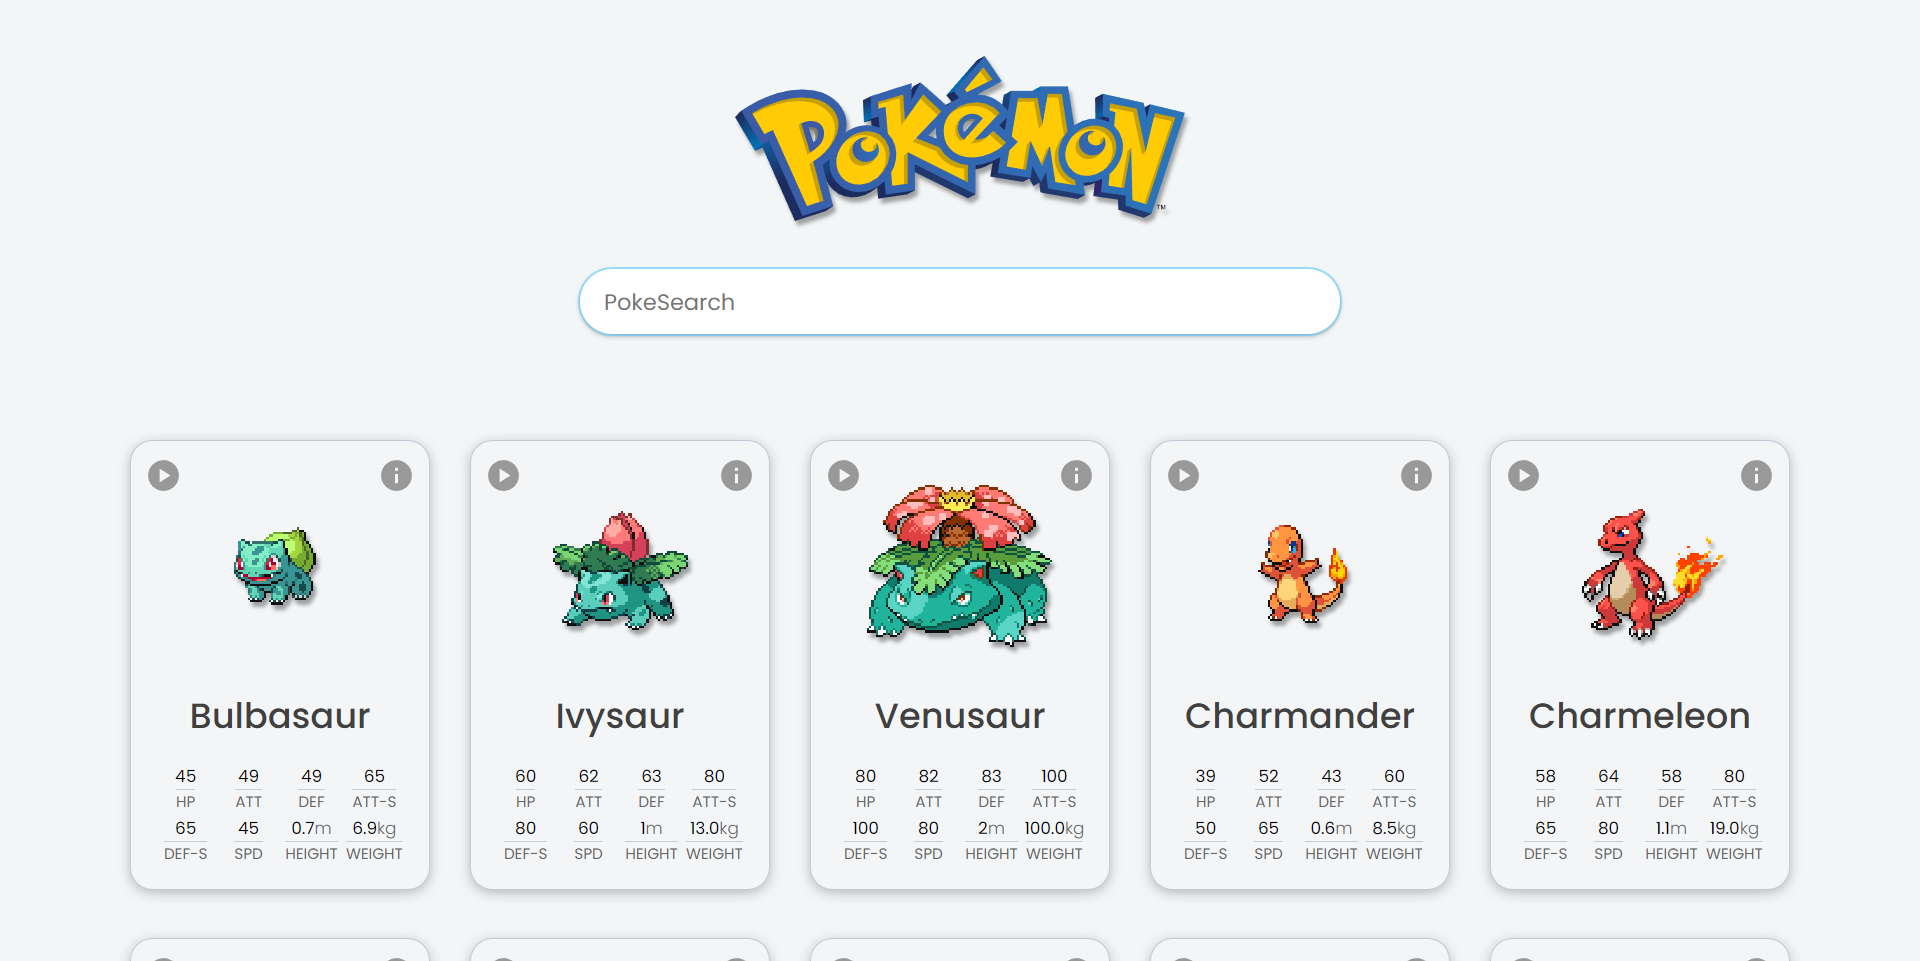
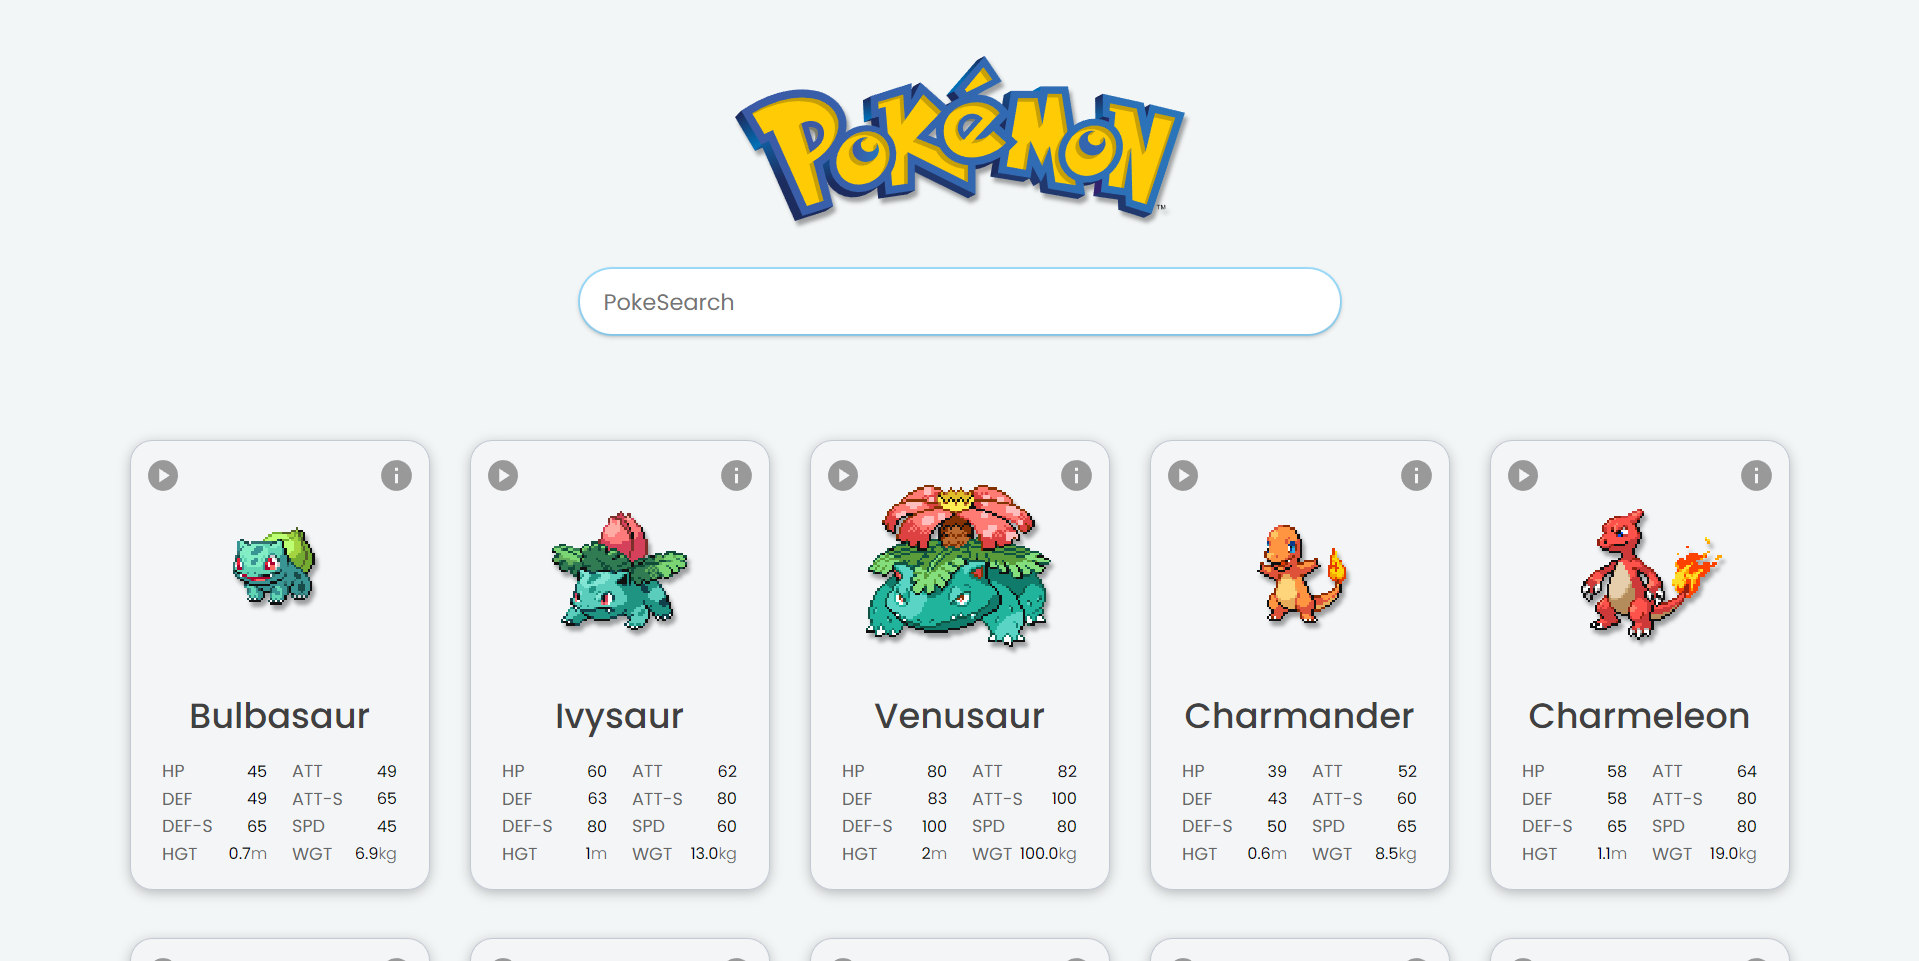
PokeAPI styles update

diff --git a/src/components/PokeCard/CardStats.tsx b/src/components/PokeCard/CardStats.tsx
@@ -1,3 +1,4 @@
+import { useLocation } from 'react-router-dom';
 import { Stat } from '../../interfaces/PokeStatsInfo';
 
 import styles from '../../stylesheets/components/PokeCardComponents/CardStats.module.scss';
@@ -10,7 +11,10 @@ type CardStatsProps = {
 };
 
 export const CardStats: React.FC<CardStatsProps> = ({ height, weight, stats }) => {
+  const { pathname } = useLocation();
+
   const UNIT_FORMULA: number = 10;
+  const atHomePage: boolean = pathname === '/';
 
   const cardStatStyles = `${styles.statsWrapper} ${pokeInfoStyles.statsWrapper}`;
   const cardUnitNameStyles = `${styles.statsUnitName} ${pokeInfoStyles.statsUnitName}`;
@@ -24,17 +28,17 @@ export const CardStats: React.FC<CardStatsProps> = ({ height, weight, stats }) =
         const changeStatsNames = (name: string): string => {
           switch (name) {
             case 'hp':
-              return 'HP';
+              return atHomePage ? 'HP' : 'HEALTH';
             case 'speed':
-              return 'SPD';
+              return atHomePage ? 'SPD' : 'SPEED';
             case 'attack':
-              return 'ATT';
+              return atHomePage ? 'ATT' : 'ATTACK';
             case 'defense':
-              return 'DEF';
+              return atHomePage ? 'DEF' : 'DEFENSE';
             case 'special-attack':
-              return 'ATT-S';
+              return atHomePage ? 'ATT-S' : 'SPECIAL-ATTACK';
             case 'special-defense':
-              return 'DEF-S';
+              return atHomePage ? 'DEF-S' : 'SPECIAL-DEFENSE';
             default:
               return name;
           }
@@ -52,14 +56,14 @@ export const CardStats: React.FC<CardStatsProps> = ({ height, weight, stats }) =
           {height / UNIT_FORMULA}
           <span className={cardUnitDisplayStyles}>m</span>
         </span>
-        <p className={cardUnitNameStyles}>HEIGHT</p>
+        <p className={cardUnitNameStyles}>{atHomePage ? 'HGT' : 'HEIGHT'}</p>
       </div>
       <div className={cardStatStyles}>
         <span className={cardUnitNumberStyles}>
           {(weight / UNIT_FORMULA).toFixed(1)}
           <span className={cardUnitDisplayStyles}>kg</span>
         </span>
-        <p className={cardUnitNameStyles}>WEIGHT</p>
+        <p className={cardUnitNameStyles}>{atHomePage ? 'WGT' : 'WEIGHT'}</p>
       </div>
     </div>
   );

diff --git a/src/stylesheets/components/PokePageComponents/PokeInfoContainer.module.scss b/src/stylesheets/components/PokePageComponents/PokeInfoContainer.module.scss
@@ -121,13 +121,15 @@
       flex-direction: column;
       align-items: flex-start;
       align-items: center;
-      gap: 0;
+      gap: 0.1rem 0;
 
       .statsWrapper {
         gap: 0.2rem;
         width: 100%;
         height: auto;
         flex-direction: row;
+        max-width: 300px;
+        padding: 0 1rem;
 
         .statsUnitNumber {
           order: 1;
@@ -140,6 +142,11 @@
             font-weight: 300;
             font-size: 1.4rem;
           }
+          @media (max-width: 400px) {
+            .statsUnitDisplay {
+              font-size: 1.25rem;
+            }
+          }
         }
 
         .statsUnitName {
@@ -148,6 +155,12 @@
           font-weight: 300;
           margin-right: 0.5rem;
           color: variables.$font-color-dark-grey;
+        }
+        @media (max-width: 400px) {
+          .statsUnitName,
+          .statsUnitNumber {
+            font-size: 1.35rem;
+          }
         }
       }
     }
@@ -183,6 +196,7 @@
         justify-content: space-around;
         flex-direction: column;
         max-width: 300px;
+        width: 100%;
       }
     }
   }

diff --git a/src/stylesheets/components/PokeCardComponents/CardStats.module.scss b/src/stylesheets/components/PokeCardComponents/CardStats.module.scss
@@ -4,18 +4,15 @@
 //CardStats Styles
 .statsContainer {
   display: flex;
-  justify-content: center;
+  justify-content: space-around;
   align-items: center;
   flex-wrap: wrap;
-  gap: 0.1rem;
+  gap: 0.1rem 0.6rem;
 
   .statsWrapper {
-    flex-grow: 1;
-    height: 50px;
-    width: 20%;
+    width: 105px;
     display: flex;
-    flex-direction: column;
-    justify-content: center;
+    justify-content: space-between;
     align-items: center;
 
     .statsUnitNumber {
@@ -23,18 +20,19 @@
       display: flex;
       justify-content: center;
       font-weight: 400;
-      font-size: 1.05rem;
+      font-size: 1rem;
 
       .statsUnitDisplay {
         color: variables.$font-color-dark-grey;
         font-weight: 300;
+        font-size: 1rem;
       }
     }
     .statsUnitName {
-      font-size: 0.95rem;
+      order: -1;
+      font-size: 1.1rem;
       font-weight: 400;
       color: variables.$font-color-dark-grey;
-      border-top: 1px solid variables.$font-color-grey;
     }
   }
 }

diff --git a/src/components/PokeCard/PokeCard.tsx b/src/components/PokeCard/PokeCard.tsx
@@ -38,7 +38,7 @@ export const PokeCard: React.FC<{ pokeData: PokeStatsInfo }> = ({
           className={styles.infoButton}
         />
         <img src={sprites?.front_default} alt={name} className={styles.pokeImg} />
-        <h3 className={pokeNameStyles}>{name}</h3>
+        <p className={pokeNameStyles}>{name}</p>
       </div>
       <CardStats height={height} weight={weight} stats={stats} />
     </div>

diff --git a/src/components/PokeSearch/PokeSearchInput.tsx b/src/components/PokeSearch/PokeSearchInput.tsx
@@ -53,7 +53,7 @@ export const PokeSearchInput = () => {
     setFilteredPokeList(filter);
   };
 
-  const atHomePage = pathname === '/';
+  const atHomePage: boolean = pathname === '/';
 
   const searchInputFocus =
     isOnFocus && !pokeSearchResponse.length

diff --git a/README.md b/README.md
@@ -50,6 +50,7 @@ Users should be able to:
 
 ### Built with
 
+- MUI.
 - SCSS.
 - Axios.
 - React.
